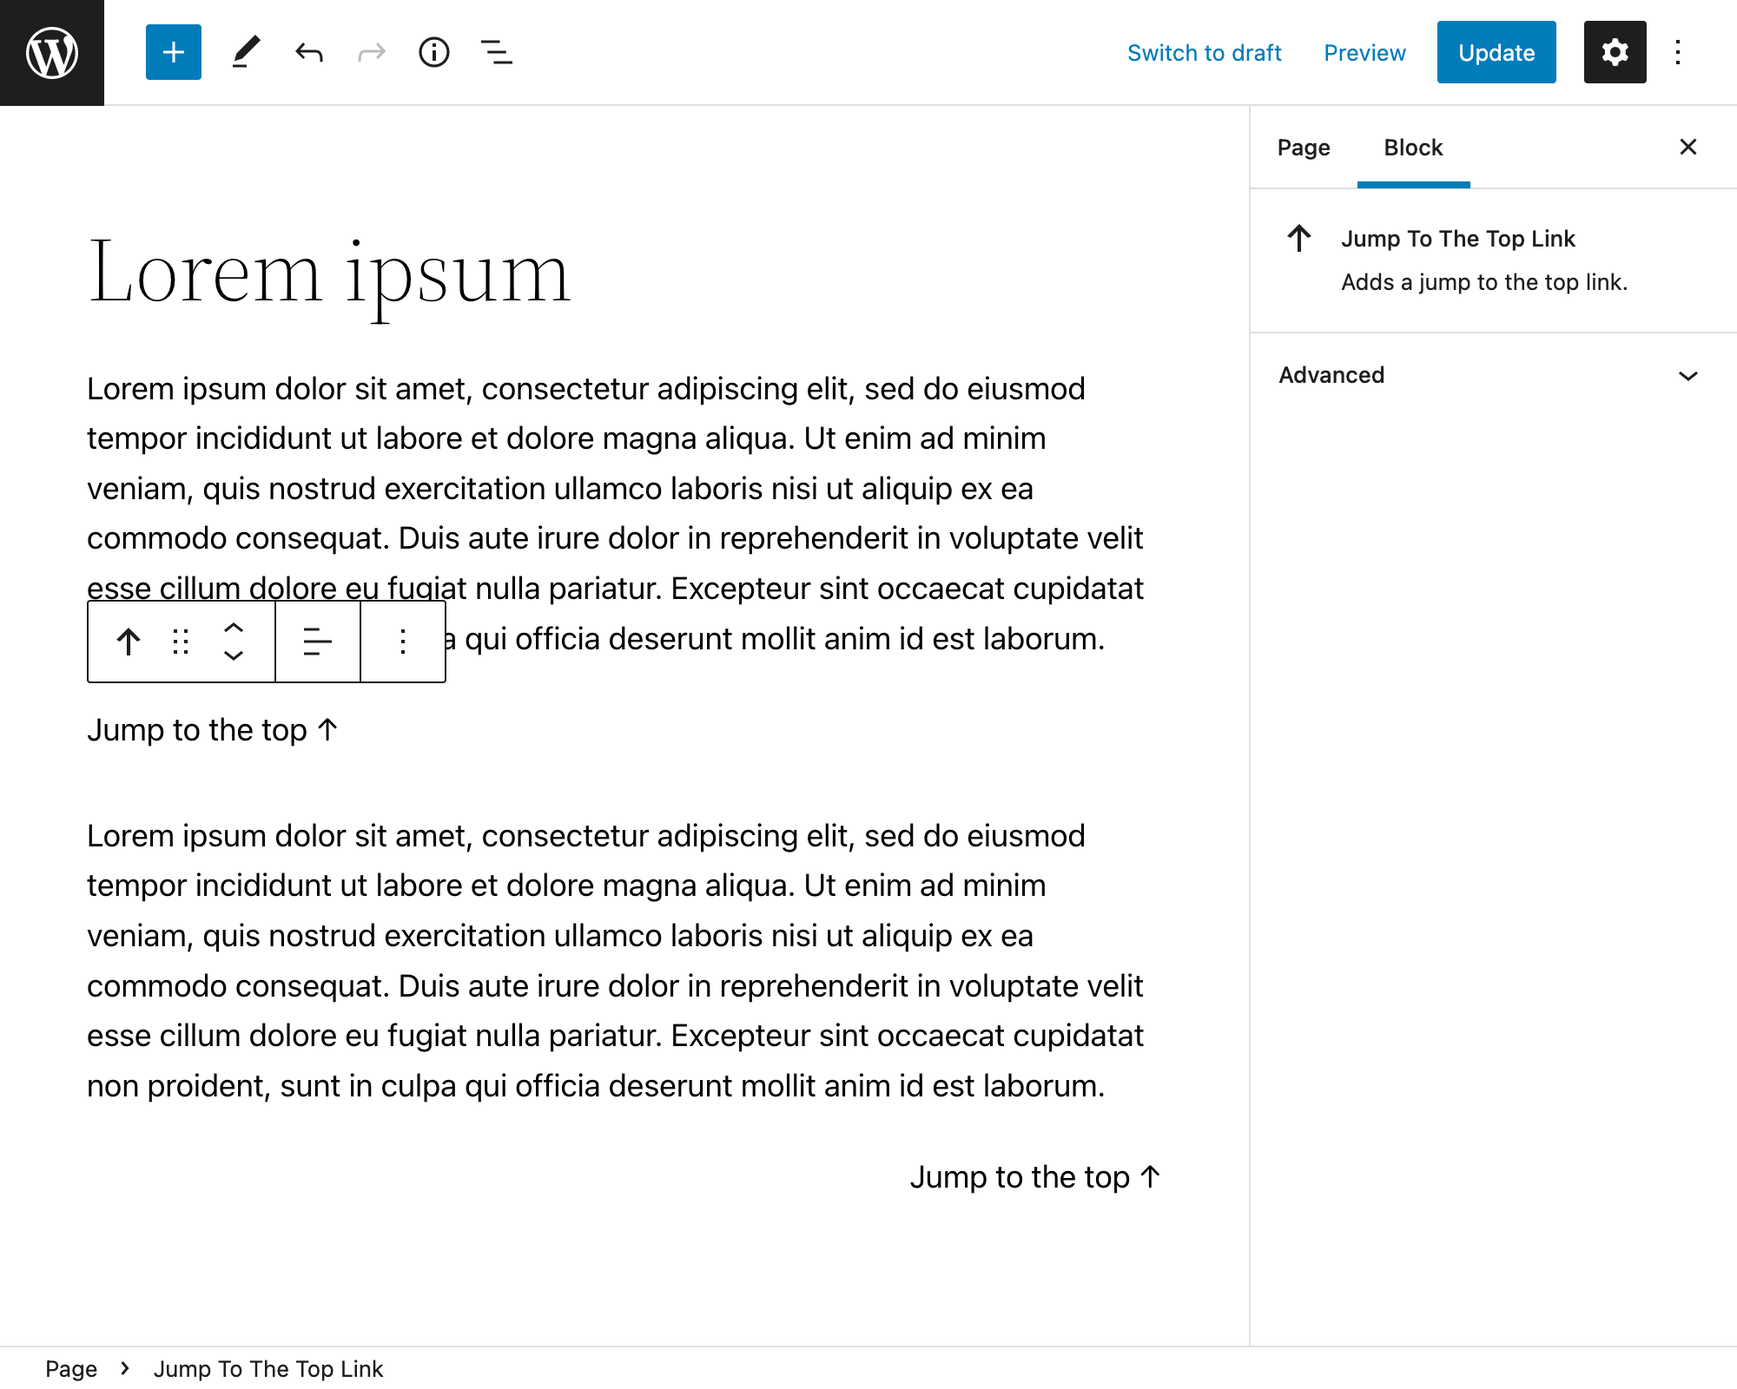
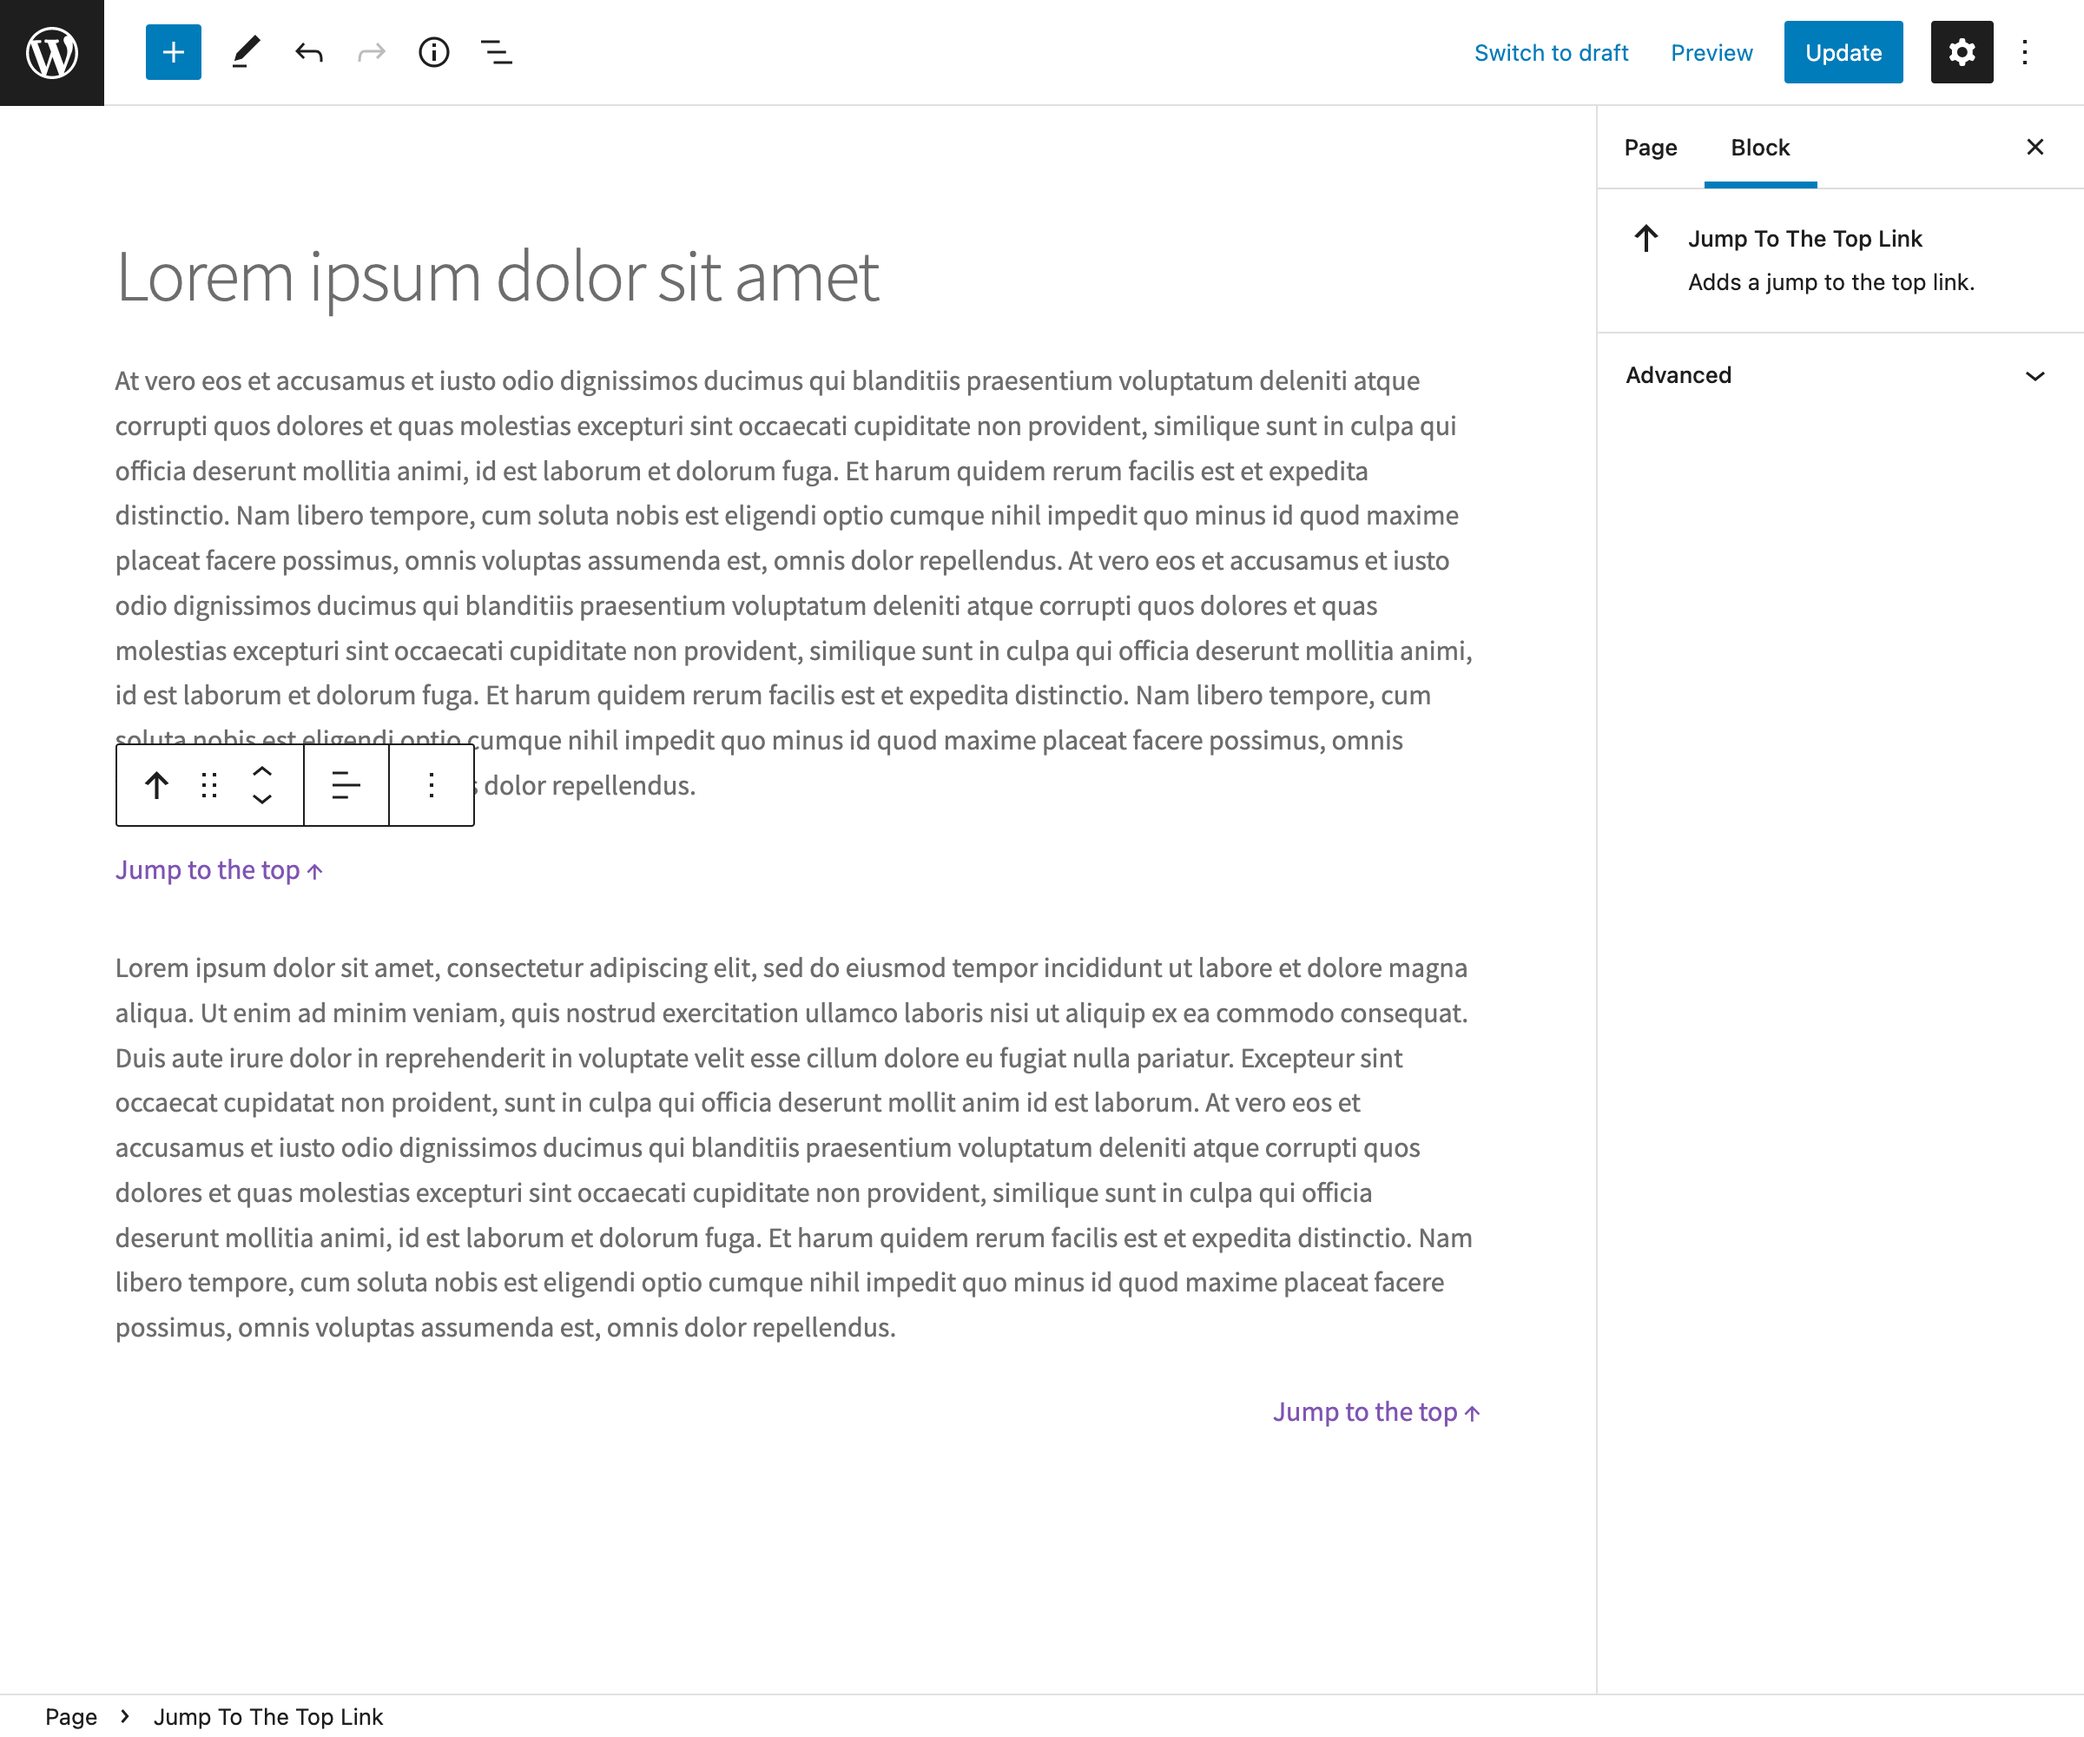
Update screenshots and tags

diff --git a/to-the-top-block.php b/to-the-top-block.php
@@ -4,7 +4,7 @@
  * Description:       Adds a jump to the top link to your pages, posts or custom post types.
  * Requires at least: 5.0
  * Requires PHP:      7.0
- * Version:           1.1.0
+ * Version:           1.2.0
  * Author:            Niels Lange
  * License:           GPL-2.0-or-later
  * License URI:       https://www.gnu.org/licenses/gpl-2.0.html
